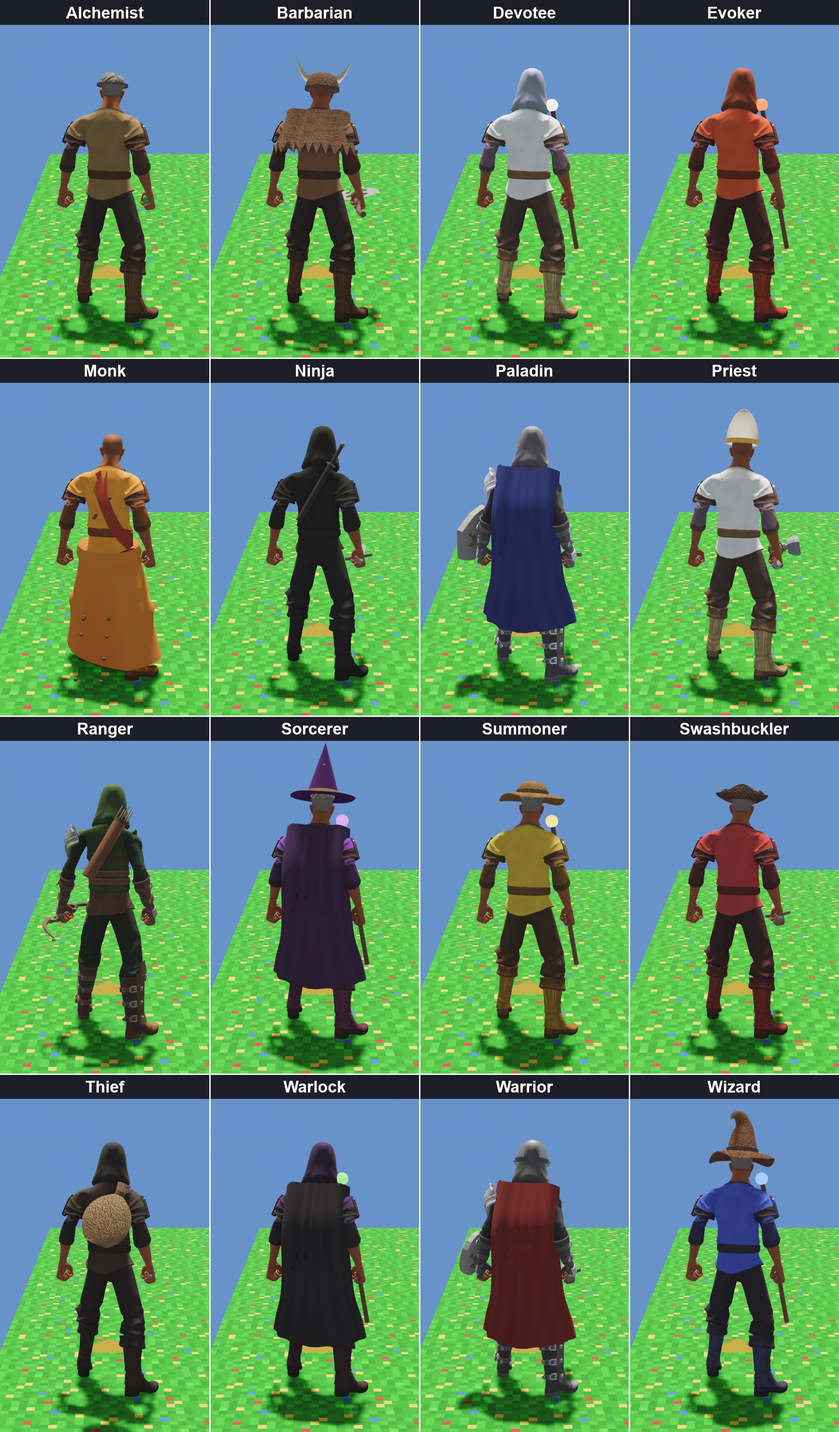
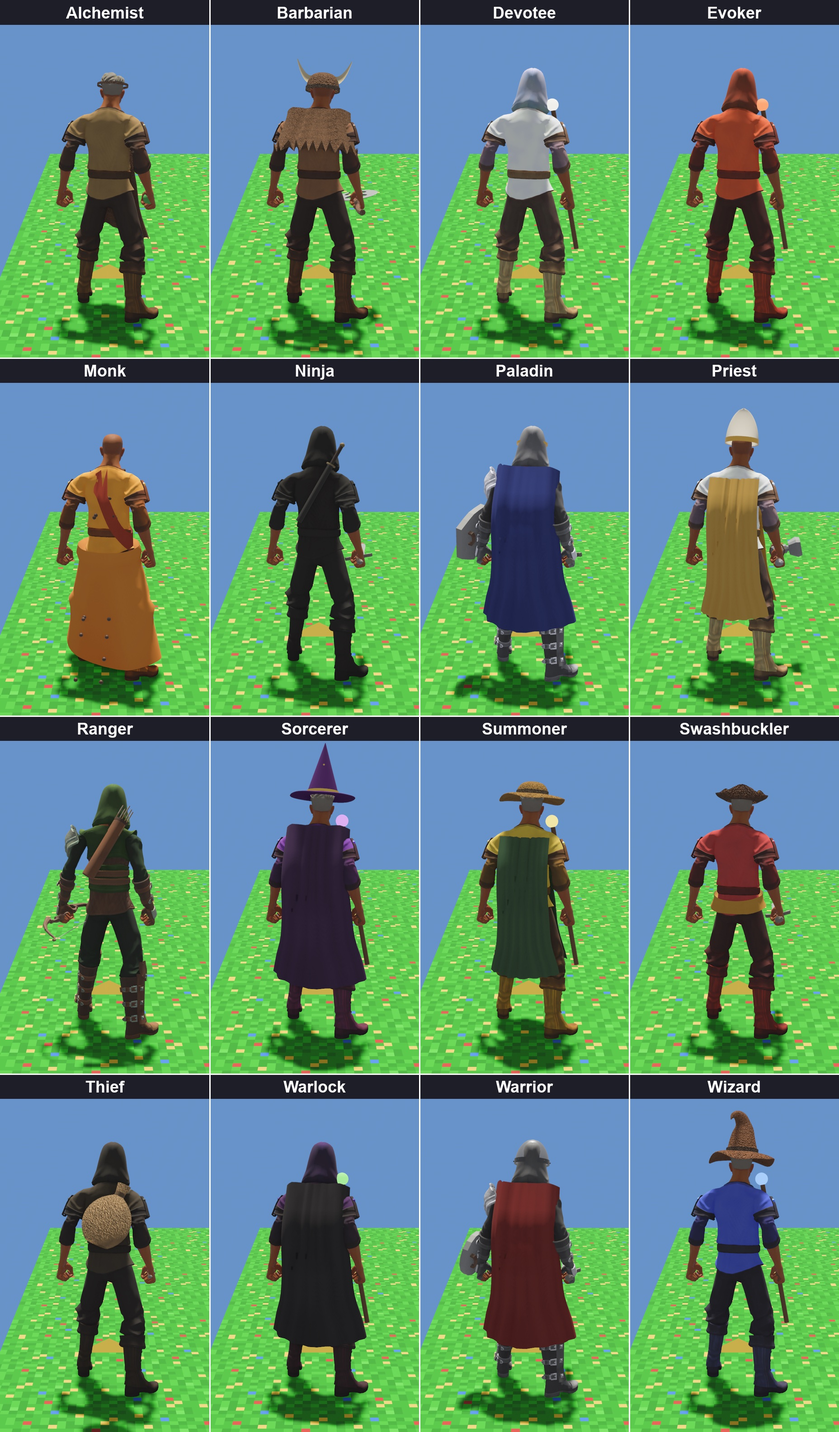
docs: class photos and table with aprons, tabards and the sash
Claude-Session: https://claude.ai/code/session_01TCZ1Tvsj4uQ5yfbn3NL389

diff --git a/docs/classes.md b/docs/classes.md
@@ -1,31 +1,31 @@
 # Classes
 
 Each class has its own look when it wears nothing else: clothes, something on the head,
-something on the back, and what it carries. Armour or a helmet the character puts on
+something over the clothes or on the back, and what it carries. Armour or a helmet the character puts on
 replaces the class's own. The looks are in `crates/crossfir3d/src/held.rs` (`class_look`).
 
 ![All classes from the front](images/class_heads.jpg)
 
 ![All classes from behind](images/class_backs.jpg)
 
-| Class | Clothes | Head | Back | Carries |
+| Class | Clothes | Head | Over the clothes or on the back | Carries |
 |---|---|---|---|---|
-| Alchemist | tan | goggles | | a potion |
+| Alchemist | tan | goggles | leather apron | a potion |
 | Barbarian | brown | leather cap with horns | fur cloak | a double axe |
 | Devotee | white | white hood | | a staff, white orb |
 | Evoker | orange | orange hood | | a staff, fire orb |
 | Monk | saffron robe, sash, prayer beads | shaved | | |
 | Ninja | black | black hood and face cloth | sheathed sword | a sword |
 | Paladin | bright steel armour | gold circlet with a gem | blue cape | a gold sword, a heater shield |
-| Priest | white | white mitre | | a hammer |
+| Priest | white | white mitre | gold tabard | a hammer |
 | Ranger | green leathers | green hood | quiver | a bow |
 | Sorcerer | purple | tall starred hat | purple cape | a staff, violet orb |
-| Summoner | yellow | wide travel hat | | a staff, gold orb |
-| Swashbuckler | red | leather tricorn | | a sword |
+| Summoner | yellow | wide travel hat | green tabard | a staff, gold orb |
+| Swashbuckler | red | leather tricorn | gold waist sash | a sword |
 | Thief | dark grey, no armour | hood | loot sack | a dagger |
 | Warlock | dark purple | hood, glowing green eyes | black cape | a staff, green orb |
 | Warrior | steel armour | steel helm with a nose guard | red cape | a sword, a round shield |
 | Wizard | blue | floppy leather pointed hat | | a staff, blue orb |
 
 Hats, capes and back pieces are built in code (`hat.rs`, `back.rs`, `robe.rs`), not
-model files. Capes and the robe are skinned to the outfit's bones, so they move with it.
+model files. Capes, aprons, tabards and the robe are skinned to the outfit's bones, so they move with it.
